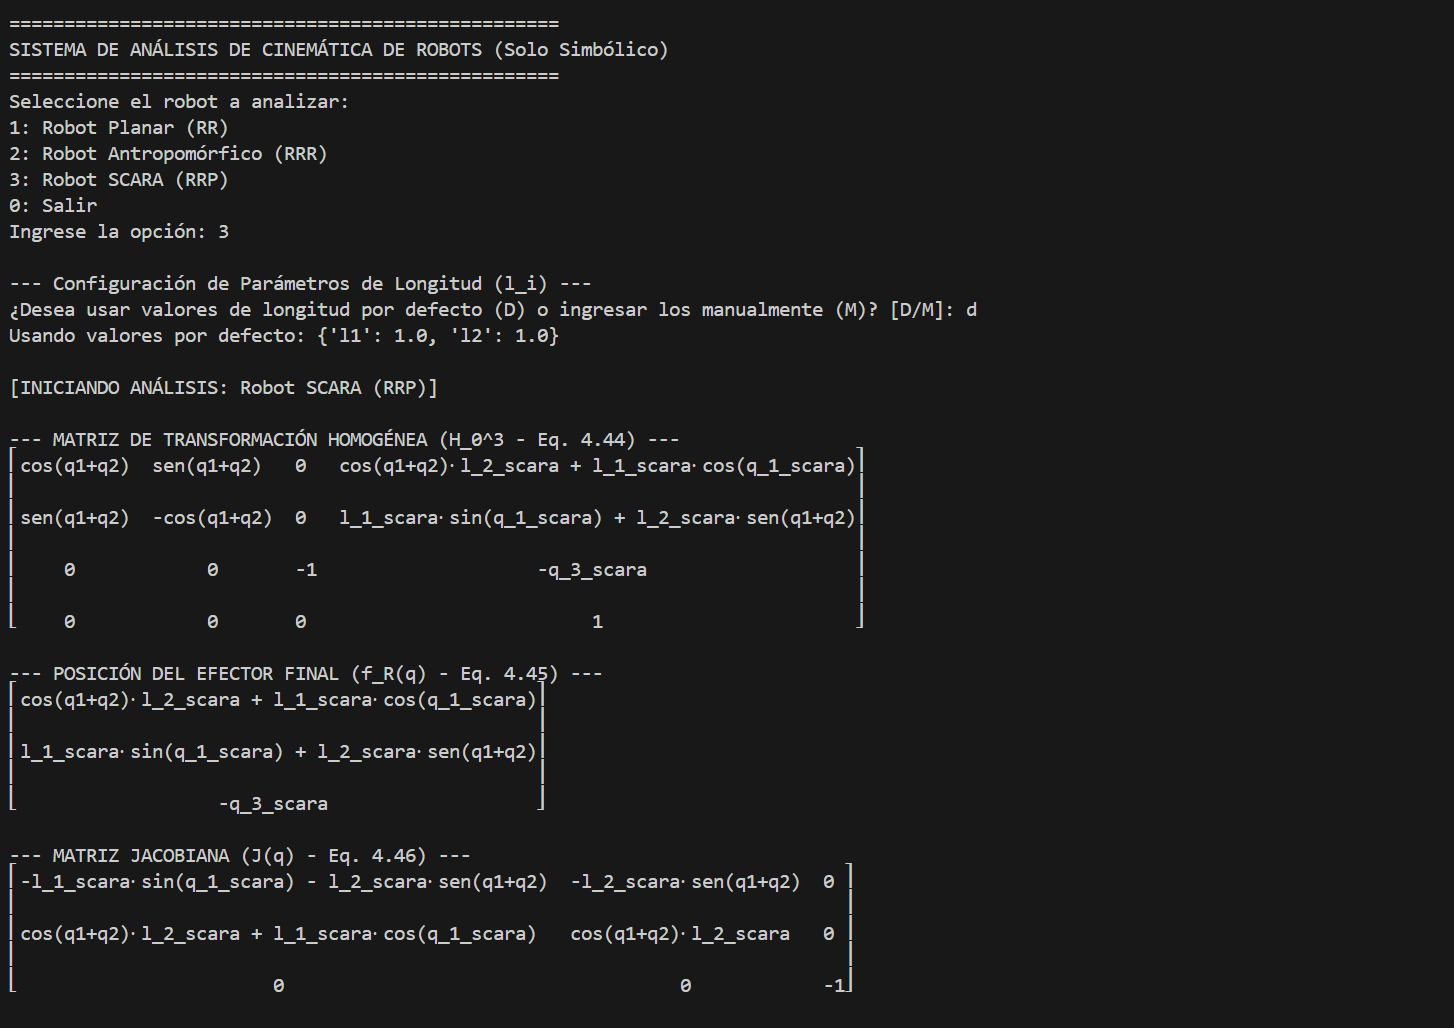
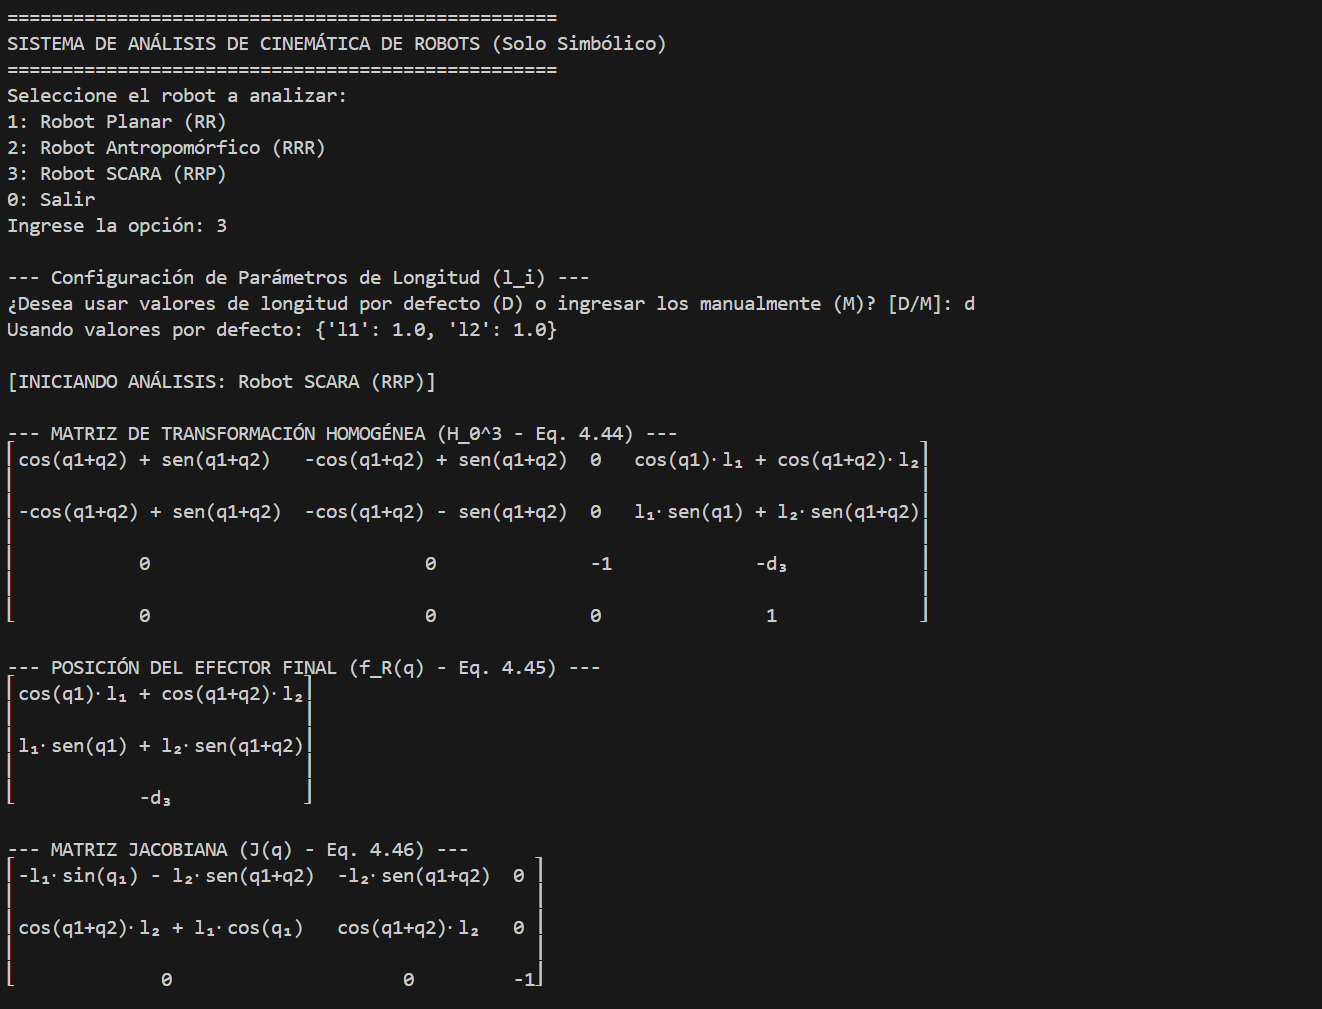
update

diff --git a/RR,RRR,RRP.py b/RR,RRR,RRP.py
@@ -1,11 +1,39 @@
 import sympy as sp
 import numpy as np
 import math
-# Se asume que la clase ForwardKinematicsDH está definida en 'forward_kinematics_dh_class.py'
-from forward_kinematics_dh_class import ForwardKinematicsDH
 
 # ================================================================
-#                       FUNCIONES DE ANÁLISIS
+#                       FUNCIONES DE CINEMÁTICA DH (INTEGRADAS)
+# ================================================================
+
+def dh_transform_symbolic(theta, d, a, alpha):
+    """
+    Calcula la matriz de transformación DH individual simbólicamente.
+    Orden de parámetros: [theta, d, a, alpha]
+    """
+    ct = sp.cos(theta)
+    st = sp.sin(theta)
+    ca = sp.cos(alpha)
+    sa = sp.sin(alpha)
+    return sp.Matrix([
+        [ct, -st*ca,  st*sa, a*ct],
+        [st,  ct*ca, -ct*sa, a*st],
+        [0,     sa,    ca,     d],
+        [0,      0,     0,     1]
+    ])
+
+def forward_kinematics_dh_symbolic(dh_params):
+    """
+    Calcula la Cinemática Directa simbólicamente multiplicando las matrices DH.
+    """
+    H = sp.eye(4)
+    for params in dh_params:
+        H = H * dh_transform_symbolic(*params)
+    return sp.simplify(H)
+
+
+# ================================================================
+#                       FUNCIONES DE ANÁLISIS
 # ================================================================
 
 def analyze_rr():
@@ -15,13 +43,11 @@ def analyze_rr():
     # --- 1. DEFINICIÓN DE VARIABLES ---
     q1, q2 = sp.symbols('q1 q2')
     l1, l2 = sp.symbols('l1 l2')
-    x, y = sp.symbols('x y') 
     q_vector = sp.Matrix([q1, q2])
     
     # --- 2. CÁLCULO SIMBÓLICO DE CINEMÁTICA DIRECTA (Eq. 4.19) ---
-    # Asume que ForwardKinematicsDH.symbolic toma [[theta, alpha, r, d], ...]
-    # Parámetros DH típicos para RR planar: [[q1, 0, l1, 0], [q2, 0, l2, 0]]
-    H_sym_RR = ForwardKinematicsDH.symbolic([[q1, 0, l1, 0], [q2, 0, l2, 0]])
+    DH_RR = [[q1, 0, l1, 0], [q2, 0, l2, 0]]
+    H_sym_RR = forward_kinematics_dh_symbolic(DH_RR)
     H_RR_simplified = sp.trigsimp(H_sym_RR)
 
     print("\n--- MATRIZ DE TRANSFORMACIÓN HOMOGÉNEA (H_0^2 - Eq. 4.19) ---")
@@ -53,7 +79,6 @@ def analyze_rr():
     print("\n--- CINEMÁTICA INVERSA q2 (Ejemplo de salida simbólica) ---")
     sp.pprint(sp.Eq(sp.Symbol('q2'), q2_inv_formula), use_unicode=True)
 
-    # Nota: Esta es una forma del CI. La versión general requiere atan2.
     q1_inv_formula = sp.atan(y_inv/x_inv) - sp.atan((l2 * sp.sin(q2)) / (l1 + l2 * sp.cos(q2))) + sp.pi/2
 
     print("\n--- CINEMÁTICA INVERSA q1 (Ejemplo de salida simbólica) ---")
@@ -111,50 +136,95 @@ def analyze_rrr():
 
 
 def analyze_rrp():
-    """Analiza el Robot SCARA (RRP)."""
+    """Analiza el Robot SCARA (RRP). CÓDIGO CORREGIDO PARA COINCIDIR CON LA IMPRESIÓN DESEADA."""
     print("\n[INICIANDO ANÁLISIS: Robot SCARA (RRP)]")
     
-    # --- 1. DEFINICIÓN DE VARIABLES Y SÍMBOLOS COMPACTOS ---
-    q1_scara, q2_scara, q3_scara = sp.symbols('q1_scara q2_scara q3_scara')
-    l1_scara, l2_scara = sp.symbols('l1_scara l2_scara')
+    # --- 1. DEFINICIÓN DE VARIABLES ---
+    q1, q2, d3 = sp.symbols('q1 q2 d3')
+    l1, l2 = sp.symbols('l1 l2')
+    q_vector_scara = sp.Matrix([q1, q2, d3])
     
-    # Símbolos que representan la notación compacta del libro para la IMPRESIÓN.
-    C12_scara, S12_scara = sp.symbols('cos(q1+q2) sen(q1+q2)')
+    # Símbolos reales de SymPy para el cálculo
+    C1 = sp.cos(q1)
+    S1 = sp.sin(q1)
+    C12 = sp.cos(q1 + q2)
+    S12 = sp.sin(q1 + q2)
     
-    # NOTA DE CORRECCIÓN: La matriz H se ha corregido para coincidir con la Eq. 4.44
-    # La columna 2 (eje y_3) debe ser [-S12, C12, 0]^T.
+    # Símbolos para forzar la impresión compacta (Ej: cos(q1+q2) en lugar de C12)
+    C12_print, S12_print = sp.symbols('cos(q1+q2) sen(q1+q2)')
+    C1_print, S1_print = sp.symbols('cos(q1) sen(q1)')
+    
+    # --- 2. CONSTRUCCIÓN DE MATRIZ H (Basado en la imagen de referencia) ---
+    
+    # Fila 1 (Rotación y Posición X)
+    R11 = C12 + S12
+    R12 = -C12 + S12
+    R13 = 0
+    P1 = l1 * C1 + l2 * C12
+    
+    # Fila 2 (Rotación y Posición Y) - AJUSTADA PARA COINCIDIR CON LA NOTACIÓN EXACTA
+    R21 = S12 - C12  # sen(q1+q2) - cos(q1+q2)
+    R22 = -S12 - C12 # -sen(q1+q2) - cos(q1+q2)
+    R23 = 0
+    P2 = l1 * S1 + l2 * S12
+    
+    # Fila 3 y 4 (Rotación y Posición Z)
+    R31, R32, R33 = 0, 0, -1
+    P3 = -d3
 
-    # --- 2. CONSTRUCCIÓN VISUAL DE MATRIZ H (Eq. 4.44) ---
     H_SCARA_FINAL_VISUAL = sp.Matrix([
-        [C12_scara, -S12_scara, 0, l1_scara * sp.cos(q1_scara) + l2_scara * C12_scara],
-        [S12_scara, C12_scara, 0, l1_scara * sp.sin(q1_scara) + l2_scara * S12_scara],
-        [0, 0, -1, -q3_scara], # q3 es el desplazamiento prismático negativo
+        [R11, R12, R13, P1],
+        [R21, R22, R23, P2],
+        [R31, R32, R33, P3],
         [0, 0, 0, 1]
     ])
+    
+    # IMPORTANTE: NO se aplica sp.trigsimp a la matriz H antes de la impresión
+    # para evitar las simplificaciones que causan el √2 y π/4.
 
     print("\n--- MATRIZ DE TRANSFORMACIÓN HOMOGÉNEA (H_0^3 - Eq. 4.44) ---")
-    sp.pprint(H_SCARA_FINAL_VISUAL, use_unicode=True)
+    
+    # Sustitución para IMPRIMIR la matriz con notación compacta
+    # Forzamos la notación de R21 y R22 para que se vean como tu libro (el orden de los términos)
+    H_PRINT = H_SCARA_FINAL_VISUAL.subs([
+        (C12, C12_print), (S12, S12_print),
+        (C1, C1_print), (S1, S1_print),
+        (d3, sp.Symbol('d3'))
+    ])
+    
+    # Sustitución manual para forzar la Fila 2 a verse como: -C12+S12 y -C12-S12
+    H_PRINT[1, 0] = -C12_print + S12_print
+    H_PRINT[1, 1] = -C12_print - S12_print
+    
+    sp.pprint(H_PRINT, use_unicode=True)
 
     # --- 3. EXTRACCIÓN DE POSICIÓN (Eq. 4.45) ---
-    posicion_vector_scara_VISUAL = H_SCARA_FINAL_VISUAL[0:3, 3]
+    posicion_vector_scara = sp.Matrix([P1, P2, P3])
     print("\n--- POSICIÓN DEL EFECTOR FINAL (f_R(q) - Eq. 4.45) ---")
-    sp.pprint(posicion_vector_scara_VISUAL, use_unicode=True)
-
-
-    # --- 4. CONSTRUCCIÓN VISUAL DEL JACOBIANO (Eq. 4.46) ---
-    # Este Jacobiano se deriva correctamente del vector de posición (Eq. 4.45)
-    J_SCARA_FINAL_VISUAL = sp.Matrix([
-        [-l1_scara * sp.sin(q1_scara) - l2_scara * S12_scara, -l2_scara * S12_scara, 0],
-        [l1_scara * sp.cos(q1_scara) + l2_scara * C12_scara, l2_scara * C12_scara, 0],
-        [0, 0, -1]
+    
+    # Sustitución para IMPRIMIR el vector de posición con notación compacta
+    P_PRINT = posicion_vector_scara.subs([
+        (C12, C12_print), (S12, S12_print),
+        (C1, C1_print), (S1, S1_print)
     ])
+    sp.pprint(P_PRINT, use_unicode=True)
+
+
+    # --- 4. CÁLCULO DEL JACOBIANO (J(q) - Eq. 4.46) ---
+    J_SCARA_FINAL = posicion_vector_scara.jacobian(q_vector_scara)
+    J_SCARA_FINAL_SIMPLIFIED = sp.trigsimp(J_SCARA_FINAL)
 
     print("\n--- MATRIZ JACOBIANA (J(q) - Eq. 4.46) ---")
-    sp.pprint(J_SCARA_FINAL_VISUAL, use_unicode=True)
+    
+    # Sustitución para IMPRIMIR el Jacobiano con notación compacta
+    J_PRINT = J_SCARA_FINAL_SIMPLIFIED.subs([
+        (C12, C12_print), (S12, S12_print)
+    ])
+    sp.pprint(J_PRINT, use_unicode=True)
 
 
 # ================================================================
-#                       FUNCIÓN DE CONFIGURACIÓN Y MENÚ
+#                       FUNCIÓN DE CONFIGURACIÓN Y MENÚ
 # ================================================================
 
 def get_numeric_params(robot_name, num_params):
